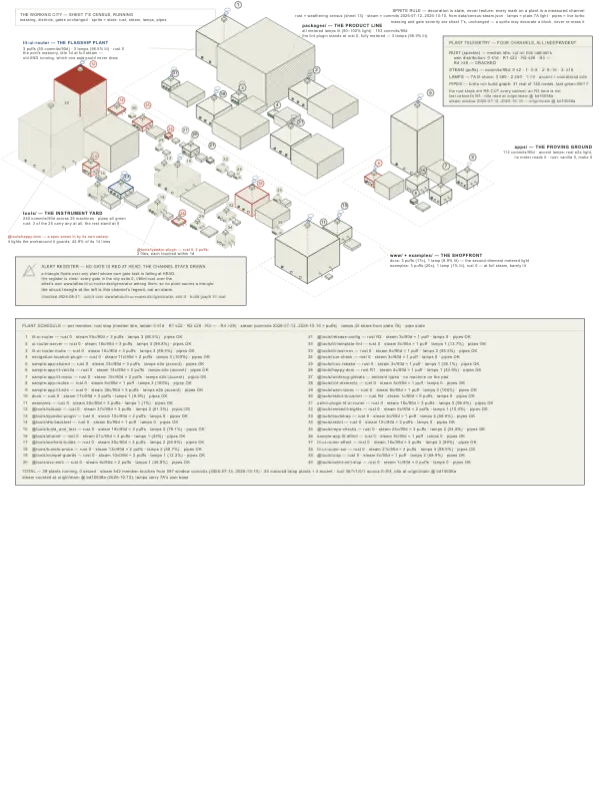
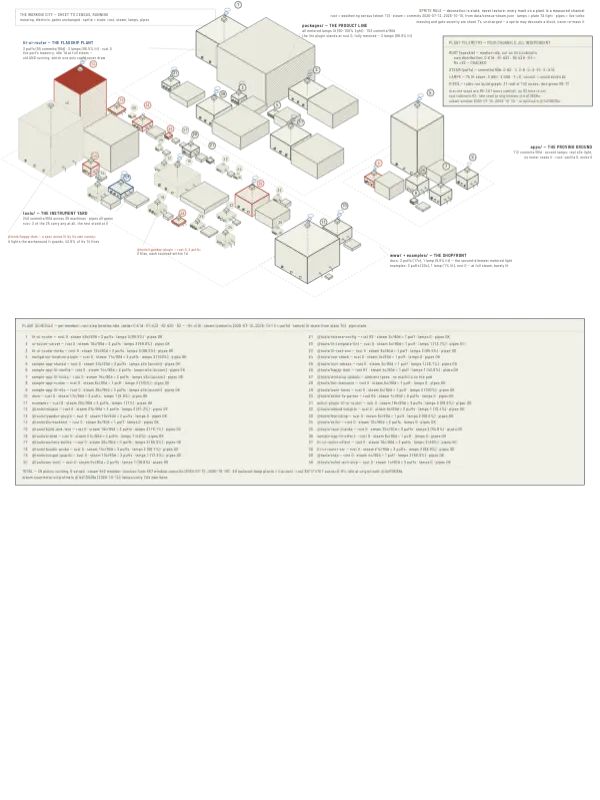
fix(atlas): sheet 7b drops the alert register box, the key's struck triangle is the legend
The box stood under the instrument yard, 600 by 126, and said in six lines
what the key's row says in one. The user found it distracting and
duplicated in the key below the plate. The plate's aria-label and the
cover's fit verdict stop naming a register; the caption's "the alert
channel is drawn and empty" holds. Rev H becomes I, HISTORY carries the
rev line, the card picture is re-shot, and the frame audit over the plate
reads 0 escapes, 0 hits, 0 text-on-text.

Claude-Session: https://claude.ai/code/session_01D1vGNxyKzYdyFrP83hW1Zr

diff --git a/www/atlas.lit-ui-router.dev/app/public/sheets/7b.html b/www/atlas.lit-ui-router.dev/app/public/sheets/7b.html
@@ -3,7 +3,7 @@
   <h2 class="sheet-title"><sup class="art">the&nbsp;</sup>WORKING CITY</h2>
   <p class="sheet-sub">ALTITUDE 3½ — SYNTHESIS PLATE TO <a class="xref" data-sheet="7" href="/sheet/7">SHEET 7</a>: the census city as a working plant · weathering (13) × test light (7A) × gates (7) × live build, one sprite per member · steam window 2026-07-12..2026-10-10 · counted at origin/main @ bd10638a (2026-10-12)</p>
   <figure>
-    <div class="plate fillable" style="--plate-ar:1.2102"><button type="button" class="fill" data-fill aria-label="Enlarge this figure, or leave it"></button><div class="figure-wrap" tabindex="0" role="group" aria-label="Fig. 7B, the drawing; scrolls sideways"><svg viewBox="0 0 1560 1289" role="img" aria-label="Sheet 7's isometric census city redrawn as a working industrial plant, every workspace member a machine on the line. Massing is unchanged — footprint proportional to the square root of source lines, height three pixels per authored file, the same four dashed districts. Each machine broadcasts its state the way a Factorio building does: red rust speckle on the flanks where a member has gone untouched, on a five-step ladder the plate cuts from its own idle distribution at build time — 36 plants stand clean, @tools/eslint-ts-parser carries the deepest rust in the city at R4, and the top step stands empty so no flank on the plate is cracked; steam puffs rising from roof vents where commits touched the member in the last ninety days, six accent puffs over lit-ui-router, sample-app-shared, the Cypress host, docs, examples and the release tool; up to three green module lamps low on each front face showing how much of the member its own test suite lights, read straight from plate 7A's own filed snapshot, with accent lamps on the sample apps whose only light is the unmetered end-to-end rig; and outlet pipes that all connect, because the build graph's 31 real tasks last ran green. No alert triangle stands over the city at all: the alert register records that no gate task in the workspace is failing at HEAD, and the struck triangle beside the register is the channel's legend rather than an alarm. A plant schedule lists every member's channel values.">
+    <div class="plate fillable" style="--plate-ar:1.2102"><button type="button" class="fill" data-fill aria-label="Enlarge this figure, or leave it"></button><div class="figure-wrap" tabindex="0" role="group" aria-label="Fig. 7B, the drawing; scrolls sideways"><svg viewBox="0 0 1560 1289" role="img" aria-label="Sheet 7's isometric census city redrawn as a working industrial plant, every workspace member a machine on the line. Massing is unchanged — footprint proportional to the square root of source lines, height three pixels per authored file, the same four dashed districts. Each machine broadcasts its state the way a Factorio building does: red rust speckle on the flanks where a member has gone untouched, on a five-step ladder the plate cuts from its own idle distribution at build time — 36 plants stand clean, @tools/eslint-ts-parser carries the deepest rust in the city at R4, and the top step stands empty so no flank on the plate is cracked; steam puffs rising from roof vents where commits touched the member in the last ninety days, six accent puffs over lit-ui-router, sample-app-shared, the Cypress host, docs, examples and the release tool; up to three green module lamps low on each front face showing how much of the member its own test suite lights, read straight from plate 7A's own filed snapshot, with accent lamps on the sample apps whose only light is the unmetered end-to-end rig; and outlet pipes that all connect, because the build graph's 31 real tasks last ran green. No alert triangle stands over the city at all: no gate task in the workspace is failing at HEAD, and the key's struck triangle is the channel's legend rather than an alarm. A plant schedule lists every member's channel values.">
 <defs>
   <marker id="s7b-ai" viewBox="0 0 10 8" refX="9" refY="4" markerWidth="9" markerHeight="7" orient="auto-start-reverse">
     <path d="M0,0 L10,4 L0,8 z" class="fi"/>
@@ -971,16 +971,6 @@
 <circle cx="174.3" cy="270.2" r="9" class="skf fp"/>
 <text x="174.3" y="273.6" class="lbls" text-anchor="middle" >40</text>
 
-<rect x="40" y="668" width="600" height="126" class="sk fp"/>
-<polygon points="76,690 62,716 90,716" class="sks fnone"/>
-<line x1="58" y1="720" x2="94" y2="686" class="sks"/>
-<text x="108" y="696" class="lbls" text-anchor="start" >ALERT REGISTER — NO GATE IS RED AT HEAD; THE CHANNEL STAYS DRAWN</text>
-<text x="108" y="714" class="lblf" text-anchor="start" >a triangle floats over any plant whose own gate task is failing at HEAD.</text>
-<text x="108" y="728" class="lblf" text-anchor="start" >the register is clear: every gate in the city exits 0, //#lint:root over the</text>
-<text x="108" y="742" class="lblf" text-anchor="start" >atlas’s own www/atlas.lit-ui-router.dev/generator among them, so no plant carries a triangle.</text>
-<text x="108" y="756" class="lbls" text-anchor="start" >the struck triangle at the left is this channel’s legend, not an alarm.</text>
-<text x="108" y="776" class="lblf" text-anchor="start" >checked 2026-08-31 · oxlint over www/atlas.lit-ui-router.dev/generator, exit 0 · build graph 31 real</text>
-
 <!-- district lettering -->
 <!-- east off 772: the flagship's roof reaches x 780 at the third line -->
 <text x="786" y="74" class="lblb" text-anchor="start" >packages/ — THE PRODUCT LINE</text>
@@ -1134,7 +1124,7 @@
   <div><span class="fld">SCALE</span>WHOLE WORKSPACE</div>
   <div><span class="fld">FORM</span>WORKING CITY</div>
   <div><span class="fld">CLIENT</span>lit-ui-router · simshanith</div>
-  <div><span class="fld">DATE / REV</span>2026-10-10 · H</div>
+  <div><span class="fld">DATE / REV</span>2026-10-10 · I</div>
   <div><span class="fld">DRAWN BY</span><span class="hand">Fable (Claude, AI)</span></div>
   <div class="sh"><span><span class="fld">SHEET</span>7B OF 14</span><span class="chop" aria-hidden="true"></span></div>
 </div>

diff --git a/www/atlas.lit-ui-router.dev/HISTORY.md b/www/atlas.lit-ui-router.dev/HISTORY.md
@@ -878,7 +878,7 @@ resolved →
 
 ## Sheet 7B — THE WORKING CITY
 
-- **file** `diagrams/generator/sheet7b.mjs` · **id** `working` · **current rev** H
+- **file** `diagrams/generator/sheet7b.mjs` · **id** `working` · **current rev** I
 - **basis** (source): `const BASIS = `counted at ${PLATE.ref} @ ${PLATE.sha} (${PLATE.generatedAtTime.slice(0, 10)})`;`
 - **subject line / lead** (resolved, present-state — not history):
 
@@ -953,6 +953,14 @@ resolved →
 **`sub` clause** (verbatim source):
 
 > REV F 2026-09-04: cabinet refresh after the 1.11.2 + mobx 1.0.0 releases — №32 @tools/embed-heights joins the plant at rust 0, its lamp metered by its own node:test suite
+
+### REV I — 2026-10-12
+
+**REV clause** (verbatim source comment, `sheet7b.mjs`):
+
+> REV I: the alert register box is gone from the plate — the key's struck triangle is the channel's one legend, and the city carries no second copy of it.
+
+The box stood at the plate's south-west, 600 × 126, under the instrument yard, and said in six lines what the key's row says in one; the user: "the alert register callout is distracting on sheet 7b. it's also duplicated in the key / legend component below". The aria-label and the cover's fit verdict stop naming a register; the caption's "the alert channel is drawn and empty" holds. The frame audit over the plate read 0 escapes · 0 hits · text-on-text unchanged, and the card picture was re-shot.
 
 ### REV H — 2026-09-13
 
